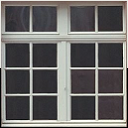
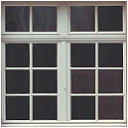
YAY

Changed region(s): [[0.0, 0.0, 1.0, 1.0]]

diff --git a/tp6/FakeWall.js b/tp6/FakeWall.js
@@ -1,102 +1,78 @@
-/** Represents a FakeWall with nrDivs divisions along both axis, with center at (0,0) */
-function FakeWall(scene) {
-    CGFobject.call(this, scene);
-    this.nrDivs = 9.0;
-    this.patchLength = 1.0 / 9.0;
-    this.initBuffers();
+function FakeWall(scene, xLeft, xRight, yUp, yDown) {
+	CGFobject.call(this, scene);
+
+	this.boards = [];
+	this.boards[0] = new MyQuad(this.scene, xLeft - 1, xLeft, yUp - 1, yUp);
+	this.boards[1] = new MyQuad(this.scene, xLeft, xRight, yUp - 1, yUp);
+	this.boards[2] = new MyQuad(this.scene, xRight, 1 + xRight, yUp - 1, yUp);
+
+	this.boards[3] = new MyQuad(this.scene, xLeft - 1, xLeft, yUp, yDown);
+	this.boards[4] = new MyQuad(this.scene, xRight, 1 + xRight, yUp, yDown);
+
+	this.boards[5] = new MyQuad(this.scene, xLeft - 1, xLeft, yDown, 1 + yDown);
+	this.boards[6] = new MyQuad(this.scene, xLeft, xRight, yDown, 1 + yDown);
+	this.boards[7] = new MyQuad(this.scene, xRight, 1 + xRight, yDown, 1 + yDown);
+
+	this.initBuffers();
 };
 
 FakeWall.prototype = Object.create(CGFobject.prototype);
 FakeWall.prototype.constructor = FakeWall;
 
-FakeWall.prototype.initBuffers = function () {
-    /* example for nrDivs = 3 :
-	(numbers represent index of point in vertices array)
+FakeWall.prototype.display = function () {
 
-	        y
-        	^
-	        |
-	0    1  |  2    3
-	        |
-	4	 5	|  6    7
-	--------|--------------> x
-	8    9  |  10  11
-	        |
-	12  13  |  14  15    
-
-	*/
-
-    // Generate vertices and normals 
-    this.vertices = [];
-    this.normals = [];
-
-    // Uncomment below to init texCoords
-    this.texCoords = [];
-
-    var yCoord = 0.5;
-
-    for (var j = 0; j <= this.nrDivs; j++) {
-        var xCoord = -0.5;
-        for (var i = 0; i <= this.nrDivs; i++) {
-            this.vertices.push(xCoord, yCoord, 0);
-
-            // As this FakeWall is being drawn on the xy FakeWall, the normal to the FakeWall will be along the positive z axis.
-            // So all the vertices will have the same normal, (0, 0, 1).
-            this.texCoords.push(i / this.nrDivs, (j / this.nrDivs - 0.5) + 0.5);
-
-            this.normals.push(0, 0, 1);
-
-            xCoord += this.patchLength;
-        }
-        yCoord -= this.patchLength;
-    }
-
-    // Generating indices
-    /* for nrDivs = 3 output will be 
-		[
-			 0, 4, 1, 5, 2, 6, 3, 7, 7, 4,
-			 4, 8, 5, 9, 6, 10, 7, 11, 11, 8,
-			 8, 12, 9, 13, 10, 14, 11, 15,
-		]
-	Interpreting this index list as a TRIANGLE_STRIP will draw rows of the FakeWall (with degenerate triangles in between. */
-
-    this.indices = [];
-    var ind = 0;
+	//scale all back to 1 by 1
+	this.scene.scale(1.0 / 3, 1.0 / 3, 1.0 / 3);
 
 
-    for (var j = 0; j < this.nrDivs; j++) {
-        for (var i = 0; i <= this.nrDivs; i++) {
-            this.indices.push(ind);
-            this.indices.push(ind + this.nrDivs + 1);
+	//Board (left up)
+	this.scene.pushMatrix();
+	this.scene.translate(-1, 1, 0);
+	this.boards[0].display();
+	this.scene.popMatrix();
 
-            ind++;
-        }
-        if (j + 1 < this.nrDivs) {
-            // Extra vertices to create degenerate triangles so that the strip can wrap on the next row
-            // degenerate triangles will not generate fragments
-            this.indices.push(ind + this.nrDivs);
-            this.indices.push(ind);
-        }
-    }
+	//Board (middle up)
+	this.scene.pushMatrix();
+	this.scene.translate(0, 1, 0);
+	this.boards[1].display();
+	this.scene.popMatrix();
 
-    this.primitiveType = this.scene.gl.TRIANGLE_STRIP;
+	//Board (right up)
+	this.scene.pushMatrix();
+	this.scene.translate(1, 1, 0);
+	this.boards[2].display();
+	this.scene.popMatrix();
 
-    /* Alternative with TRIANGLES instead of TRIANGLE_STRIP. More indices, but no degenerate triangles */
-    /*
-    	for (var j = 0; j < this.nrDivs; j++) 
-    	{
-    		for (var i = 0; i < this.nrDivs; i++) 
-    		{
-    			this.indices.push(ind, ind+this.nrDivs+1, ind+1);
-    			this.indices.push(ind+1, ind+this.nrDivs+1, ind+this.nrDivs+2 );
+	//Board (left middle)
+	this.scene.pushMatrix();
+	this.scene.translate(-1, 0, 0);
+	this.boards[3].display();
+	this.scene.popMatrix();
 
-    			ind++;
-    		}
-    		ind++;
-    	}
+	//Board (right middle)
+	this.scene.pushMatrix();
+	this.scene.translate(1, 0, 0);
+	this.boards[4].display();
+	this.scene.popMatrix();
 
-    	this.primitiveType = this.scene.gl.TRIANGLES;
-    */
+	//Board (left down)
+	this.scene.pushMatrix();
+	this.scene.translate(-1, -1, 0);
+	this.boards[5].display();
+	this.scene.popMatrix();
 
-    this.initGLBuffers();
-};
+	//Board (middle down)
+	this.scene.pushMatrix();
+	this.scene.translate(0, -1, 0);
+	this.boards[6].display();
+	this.scene.popMatrix();
+
+	//Board (right down)
+	this.scene.pushMatrix();
+	this.scene.translate(1, -1, 0);
+	this.boards[7].display();
+	this.scene.popMatrix();
+
+
+
+}

diff --git a/tp6/LightingScene.js b/tp6/LightingScene.js
@@ -9,6 +9,7 @@ var BOARD_B_DIVISIONS = 100;
 
 var BOARD_A_RATIO = BOARD_RATIO / (512.0 / 512.0);
 var BOARD_B_RATIO = BOARD_RATIO / (512.0 / 372.0);
+var BACKGROUND_RATIO = (1200 / 1600);
 
 function LightingScene() {
 	CGFscene.call(this);
@@ -71,9 +72,8 @@ LightingScene.prototype.init = function (application) {
 	// Scene elements
 	this.table = new MyTable(this);
 	this.floor = new MyQuad(this, 0, 10, 0, 12);
-	this.leftWall = new MyQuad(this, -1, 2, -1, 2);
 	this.wall = new Plane(this);
-	this.fakewall = new FakeWall(this);
+	this.fakewall = new FakeWall(this, 0.03, 0.97, 0.05, 0.95);
 	this.boardA = new Plane(this, BOARD_A_DIVISIONS, BOARD_A_RATIO);
 	this.boardB = new Plane(this, BOARD_B_DIVISIONS, BOARD_B_RATIO);
 	this.cylinder = new MyCoveredCylinder(this, 6, 20);
@@ -81,6 +81,7 @@ LightingScene.prototype.init = function (application) {
 	this.clock = new MyClock(this, 12, 1);
 	this.paperPlane = new MyPaperPlane(this, 20, [0, 11.5, 2], [180 * degToRad, 180 * degToRad, 0 * degToRad], [0, -1.5, -5]);
 	this.robot = new MyRobot(this, 7.25, 8, -155 * degToRad);
+	this.background = new Plane(this, 30, BACKGROUND_RATIO);
 
 	// Materials
 	this.materialDefault = new CGFappearance(this);
@@ -95,9 +96,9 @@ LightingScene.prototype.init = function (application) {
 
 	//Window Appearance
 	this.windowAppearance = new CGFappearance(this);
-	this.windowAppearance.setAmbient(0.3, 0.3, 0.3, 1);
-	this.windowAppearance.setDiffuse(0.5, 0.5, 0.5, 1);
-	this.windowAppearance.setSpecular(0.1, 0.1, 0.1, 1);
+	this.windowAppearance.setAmbient(0.1, 0.1, 0.1, 1);
+	this.windowAppearance.setDiffuse(0.1, 0.3, 0.05, 1);
+	this.windowAppearance.setSpecular(0.15, 0.15, 0.15, 1);
 	this.windowAppearance.setShininess(10);
 	this.windowAppearance.loadTexture(this.path + "window.png");
 	this.windowAppearance.setTextureWrap("CLAMP_TO_EDGE", "CLAMP_TO_EDGE");
@@ -144,6 +145,15 @@ LightingScene.prototype.init = function (application) {
 	this.lampAppearance.setShininess(20);
 	this.lampAppearance.loadTexture(this.path + "disco.png");
 	this.lampAppearance.setTextureWrap("CLAMP_TO_EDGE", "CLAMP_TO_EDGE");
+
+	// Background Appearance
+	this.backgroundAppearance = new CGFappearance(this);
+	this.backgroundAppearance.setAmbient(0.8, 0.8, 0.8, 1);
+	this.backgroundAppearance.setDiffuse(0.5, 0.5, 0.5, 1);
+	this.backgroundAppearance.setSpecular(0.3, 0.3, 0.3, 1);
+	this.backgroundAppearance.setShininess(5);
+	this.backgroundAppearance.loadTexture(this.path + "tatooine.jpg");
+	this.backgroundAppearance.setTextureWrap("CLAMP_TO_EDGE", "CLAMP_TO_EDGE");
 
 	/* setup update method */
 	this.setUpdatePeriod(25);
@@ -275,14 +285,14 @@ LightingScene.prototype.display = function () {
 	this.floor.display();
 	this.popMatrix();
 
-    // Fake Wall
-    this.pushMatrix();
-    this.translate(0, 4, 7.5);
-    this.rotate(90 * degToRad, 0, 1, 0);
-    this.scale(15, 8, 0.2);
-    this.windowAppearance.apply();
-    this.fakewall.display();
-    this.popMatrix();
+	// Fake Wall
+	this.pushMatrix();
+	this.translate(0, 4, 7.5);
+	this.rotate(90 * degToRad, 0, 1, 0);
+	this.scale(15, 8, 0.2);
+	this.windowAppearance.apply();
+	this.fakewall.display();
+	this.popMatrix();
 
 	// Plane Wall
 	this.pushMatrix();
@@ -340,6 +350,15 @@ LightingScene.prototype.display = function () {
 	// Robot
 	this.pushMatrix();
 	this.robot.display();
+	this.popMatrix();
+
+	this.pushMatrix();
+
+	this.translate(-2, 3.5, 7.5);
+	this.rotate(90 * degToRad, 0, 1, 0);
+	this.scale(7 / BACKGROUND_RATIO, 7 * BACKGROUND_RATIO, 1);
+	this.backgroundAppearance.apply();
+	this.background.display();
 	this.popMatrix();
 
 	// ---- END Primitive drawing section

diff --git a/tp6/MyRobot.js b/tp6/MyRobot.js
@@ -199,7 +199,7 @@ MyRobot.prototype.wave = function (currTime) {
 	} else if (this.waveState == 4) {
 		this.armRang -= 0.01 * (currTime - this.waveTime);
 
-		if (this.armRang <= 1) {
+		if (this.armRang <= this.armLang) {
 			this.waveTime = currTime;
 			this.waveState = 0;
 			this.isWaving = false;
